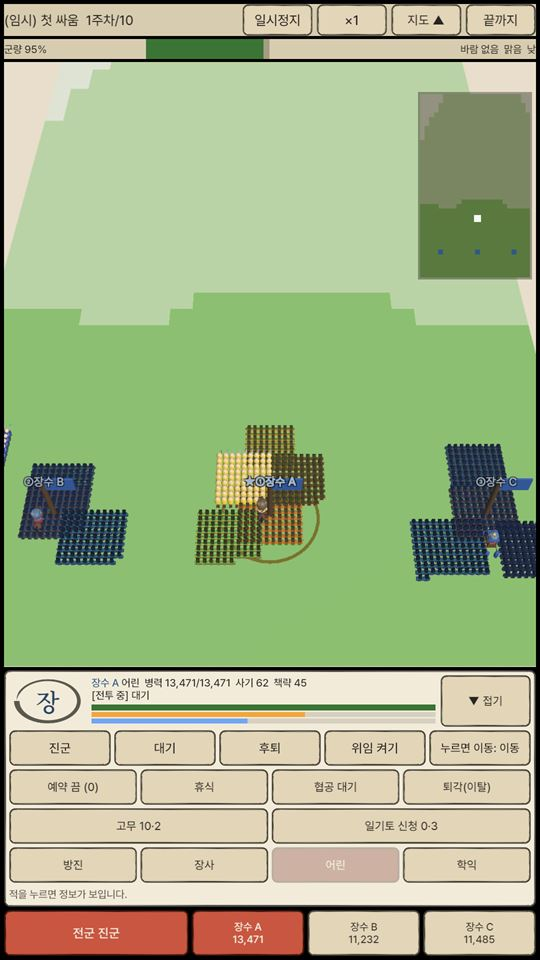
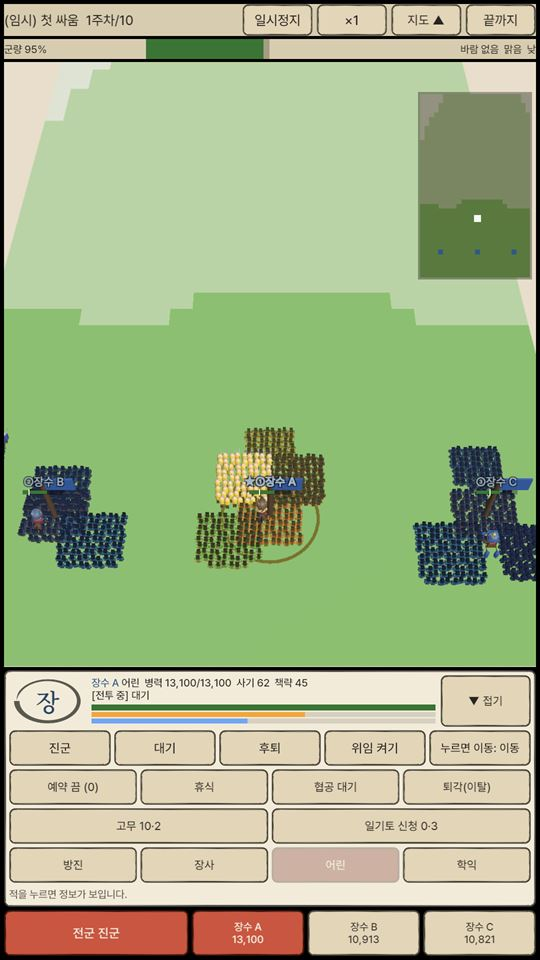
Play Test (전투 확인) 메뉴와 원격 #139 확인 결과 (#141)
원격 #139(진형 전환·퇴각 선택·사기 막대·쓰러짐)를 데스크탑이 Unity에서 확인했다.
- Game ▸ Play Test (전투 확인): 진형 전환 3장, 퇴각 창 [버틴다]/[퇴각한다], 접전 확대,
  장수 자세 확대, FPS
- 결과·캡처·버그 B5~B8은 docs/captures/latest/README.md

diff --git a/unity/Assets/Game/Scripts/Boot/PlayTestTour.cs b/unity/Assets/Game/Scripts/Boot/PlayTestTour.cs
@@ -29,7 +29,8 @@ namespace Game.Unity.Boot
         public bool Done { get; private set; }
         public string Folder => _folder;
 
-        public PlayTestTour(GameApp app, string folder) { _app = app; _folder = folder; }
+        private readonly bool _battleOnly;
+        public PlayTestTour(GameApp app, string folder, bool battleOnly = false) { _app = app; _folder = folder; _battleOnly = battleOnly; }
 
         private GameContext Ctx => _app.Context;
         private string T(string key, params object[] args) => Ctx.T(key, args);
@@ -49,6 +50,14 @@ namespace Game.Unity.Boot
                 ("5·6·7 전투 이동·일기토(거절)·탈것", () => BattleChecks(false)),
                 ("6 일기토 응하기 (새 전투)", () => BattleChecks(true)),
                 ("8 아이콘·ⓘ", IconsAndInfo),
+                ("9 큰 전투", BigBattle),
+            };
+            if (_battleOnly) sections = new (string name, Func<IEnumerator> run)[]
+            {
+                ("R-92 진형 전환", Reform),
+                ("R-93 퇴각 선택 [버틴다] + 사기 막대·쓰러짐·일기토 알림", () => RetreatChoice(true)),
+                ("R-93 퇴각 선택 [퇴각한다]", () => RetreatChoice(false)),
+                ("장수 자세 확대", PoseCloseups),
                 ("9 큰 전투", BigBattle),
             };
             foreach (var s in sections)
@@ -353,6 +362,126 @@ namespace Game.Unity.Boot
             VisibleButton(T("ui.battle.skip"))?.onClick.Invoke();
             yield return new WaitForSecondsRealtime(1f);
         }
+
+        // ---------- PR #139: 진형 전환 ----------
+        private IEnumerator Reform()
+        {
+            var screen = StartFirstSample(); if (screen == null) yield break;
+            var ctl = screen.DebugControl; var sim = screen.DebugSim; var field = FieldOf(screen);
+            screen.DebugSetSpeed(0);
+            yield return new WaitForSecondsRealtime(1f);
+            var c = ctl.OwnCorps().FirstOrDefault(x => x.Setup.KnownFormations != null && x.Setup.KnownFormations.Any(f => f != x.Formation?.Id));
+            if (c == null) { Log("진형을 바꿀 수 있는 아군 군단 없음 (아는 진형이 하나뿐)"); yield break; }
+            string to = c.Setup.KnownFormations.First(f => f != c.Formation?.Id);
+            field.LookAt(c); field.Rig.SetDistance(14f);
+            ctl.Select(c.Id);
+            bool ok = ctl.ChangeFormation(to);
+            yield return null; yield return null;
+            Log($"진형 전환 {c.Id}: {c.Formation?.Id} → {to}, 명령 {(ok ? "받음" : "거부")}, 전환 {c.ReformTotalTicks}틱 ({c.ReformTotalTicks * sim.Context.Combat.TickSeconds.ToDisplayDouble():0.0}초)");
+            yield return Shot("pt30_reform_start");
+            float until = Time.realtimeSinceStartup + 12f;
+            while (c.Reforming && c.ReformProgress < Fix.FromInt(1) / Fix.FromInt(2) && Time.realtimeSinceStartup < until) yield return null;
+            yield return Shot("pt31_reform_mid");
+            while (c.Reforming && Time.realtimeSinceStartup < until) yield return null;
+            yield return new WaitForSecondsRealtime(0.3f);
+            Log($"전환 끝: 지금 진형 {c.Formation?.Id}, 전환 중 {c.Reforming}");
+            yield return Shot("pt32_reform_end");
+            VisibleButton(T("ui.battle.skip"))?.onClick.Invoke();
+            yield return new WaitForSecondsRealtime(1f);
+        }
+
+        // ---------- PR #139: 퇴각 선택 (+ 사기 막대·쓰러짐·일기토 알림) ----------
+        private IEnumerator RetreatChoice(bool hold)
+        {
+            var screen = StartFirstSample(); if (screen == null) yield break;
+            var ctl = screen.DebugControl; var field = FieldOf(screen);
+            screen.DebugSetSpeed(2);
+            string tag = hold ? "hold" : "retreat";
+            bool asked = false, closeShot = false, duelNoted = false;
+            float until = Time.realtimeSinceStartup + 200f, after = 0f;
+            while (Time.realtimeSinceStartup < until && _app.CurrentScreen == screen)
+            {
+                yield return new WaitForSecondsRealtime(0.25f);
+                // 일기토 창: 위 알림 문구만 기록하고 거절해 넘어간다 (이 시험의 주제가 아님)
+                var duelNo = VisibleButton(T("ui.duel.refuse")) ?? VisibleButton(T("ui.duel.pass"));
+                if (duelNo != null)
+                {
+                    if (!duelNoted) { duelNoted = true; Log("일기토 창이 뜰 때 위 알림: " + string.Join(" / ", NoticeTexts())); yield return Shot("pt33_duel_notice"); }
+                    duelNo.onClick.Invoke(); continue;
+                }
+                // 접전 확대 한 번 (사기 막대·쓰러지는 병사·시체)
+                var engaged = ctl.OwnCorps().FirstOrDefault(x => x.MeleeContact);
+                if (!closeShot && engaged != null)
+                {
+                    closeShot = true;
+                    screen.DebugSetSpeed(0);
+                    field.LookAt(engaged); field.Rig.SetDistance(12f);
+                    yield return new WaitForSecondsRealtime(1.2f);
+                    yield return Shot("pt34_melee_close_" + tag);
+                    field.Rig.SetDistance(20f);
+                    yield return Shot("pt35_morale_bars_" + tag);
+                    screen.DebugSetSpeed(2);
+                }
+                var holdB = VisibleButton(T("ui.retreatAsk.hold"));
+                if (holdB != null && !asked)
+                {
+                    asked = true;
+                    var who = ctl.OwnCorps().OrderBy(x => x.Morale).FirstOrDefault();
+                    if (who != null) { field.LookAt(who); field.Rig.SetDistance(16f); }
+                    yield return null;
+                    Log($"퇴각 선택 창 뜸 ({who?.Id} 사기 {who?.Morale.FloorToLong()} 병력 {who?.Troops:N0})");
+                    yield return Shot("pt36_retreat_prompt");
+                    if (hold) holdB.onClick.Invoke(); else VisibleButton(T("ui.retreatAsk.retreat"))?.onClick.Invoke();
+                    Log("누름: " + (hold ? "[버틴다]" : "[퇴각한다]"));
+                    after = Time.realtimeSinceStartup;
+                    continue;
+                }
+                if (asked)
+                {
+                    var hit = NoticeTexts().FirstOrDefault(t => t.Contains("패주") || t.Contains("퇴각한다"));
+                    if (hit != null) { Log("알림: " + hit); yield return Shot("pt37_after_" + tag); break; }
+                    if (Time.realtimeSinceStartup - after > 90f) { Log("누른 뒤 90초 안에 퇴각·패주 알림을 못 봄"); break; }
+                }
+            }
+            if (!asked) Log("퇴각 선택 창이 안 뜸 (200초)");
+            if (!closeShot) Log("접전 장면을 못 찍음");
+            if (_app.CurrentScreen is BattleScreen) VisibleButton(T("ui.battle.skip"))?.onClick.Invoke();
+            yield return new WaitForSecondsRealtime(1f);
+        }
+
+        // ---------- 장수 자세 확대 ----------
+        private IEnumerator PoseCloseups()
+        {
+            var screen = StartFirstSample(); if (screen == null) yield break;
+            var sim = screen.DebugSim; var field = FieldOf(screen);
+            yield return new WaitForSecondsRealtime(1f);
+            SetPaused(screen, true);
+            int n = 0;
+            foreach (var c in sim.Context.Corps.Where(x => x.InBattle).ToList())
+            {
+                field.LookAt(c); field.Rig.SetDistance(Game.Unity.Battle3D.BattleCameraRig.MinDistance);
+                yield return new WaitForSecondsRealtime(0.4f);
+                string role = c.Setup.Role == CorpsRoles.Commander ? "총대장" : "장수";
+                string name = $"pt40_pose_{n++}_{c.Id}";
+                yield return Shot(name);
+                Log($"자세 확대: {c.Id} ({c.Team}, {role}) → {name}");
+            }
+            SetPaused(screen, false);
+            VisibleButton(T("ui.battle.skip"))?.onClick.Invoke();
+            yield return new WaitForSecondsRealtime(1f);
+        }
+
+        private BattleScreen StartFirstSample()
+        {
+            var catalog = SampleBattles.Catalog(Ctx.Defs, Ctx.Flow);
+            if (catalog.Count == 0) { Log("전투할 맵 없음"); return null; }
+            return StartSample(catalog[0]);
+        }
+        private static Game.Unity.Battle3D.BattleField3D FieldOf(BattleScreen s) =>
+            (Game.Unity.Battle3D.BattleField3D)typeof(BattleScreen).GetField("_field", System.Reflection.BindingFlags.NonPublic | System.Reflection.BindingFlags.Instance)?.GetValue(s);
+        private static void SetPaused(BattleScreen s, bool on) =>
+            typeof(BattleScreen).GetField("_paused", System.Reflection.BindingFlags.NonPublic | System.Reflection.BindingFlags.Instance)?.SetValue(s, on);
+        private IEnumerable<string> NoticeTexts() => Texts().Select(t => t.text).Where(t => !string.IsNullOrEmpty(t) && (t.Contains("군단") || t.Contains("일기토")));
 
         // ---------- 도움 ----------
         private static Vec ClampToField(BattleSimulation sim, Vec p)

diff --git a/unity/Assets/Game/Editor/GameEditorMenu.cs b/unity/Assets/Game/Editor/GameEditorMenu.cs
@@ -82,8 +82,13 @@ namespace Game.Unity.EditorTools
         /// 플레이 테스트 (Play 중에만): 하단 탭·마스터·샘플전투·맵·전투 이동·일기토·아이콘·큰 전투를 버튼을 눌러 가며 해 보고
         /// 캡처(pt*.png)와 기록(playtest.log)을 저장소/captures/playtest_날짜_시각/ 에 남긴다. 마스터 행동이 세이브를 바꾸므로 세이브를 먼저 백업한다.
         /// </summary>
+        [MenuItem("Game/Play Test (전투 확인)")]
+        public static void PlayTestBattle() => RunPlayTest(true);
+
         [MenuItem("Game/Play Test")]
-        public static void PlayTest()
+        public static void PlayTest() => RunPlayTest(false);
+
+        private static void RunPlayTest(bool battleOnly)
         {
             if (!EditorApplication.isPlaying)
             {
@@ -92,8 +97,8 @@ namespace Game.Unity.EditorTools
             }
             var app = Object.FindFirstObjectByType<GameApp>();
             if (app == null || app.Context == null) { Debug.LogWarning("GameApp이 준비되지 않았습니다."); return; }
-            string folder = Path.Combine(GameDataPaths.RepoRoot, "captures", "playtest_" + System.DateTime.Now.ToString("yyyyMMdd_HHmmss"));
-            var tour = app.StartPlayTest(folder);
+            string folder = Path.Combine(GameDataPaths.RepoRoot, "captures", (battleOnly ? "playtest_battle_" : "playtest_") + System.DateTime.Now.ToString("yyyyMMdd_HHmmss"));
+            var tour = app.StartPlayTest(folder, battleOnly);
             EditorApplication.CallbackFunction wait = null;
             wait = () =>
             {

diff --git a/unity/Assets/Game/Scripts/Boot/GameApp.cs b/unity/Assets/Game/Scripts/Boot/GameApp.cs
@@ -142,9 +142,9 @@ namespace Game.Unity.Boot
         public GameScreen CurrentScreen => _current;
 
         /// <summary>개발용: 확인 목록을 버튼을 눌러 가며 해 보고 캡처·기록을 남긴다 (<see cref="PlayTestTour"/>).</summary>
-        public PlayTestTour StartPlayTest(string folder)
+        public PlayTestTour StartPlayTest(string folder, bool battleOnly = false)
         {
-            var tour = new PlayTestTour(this, folder);
+            var tour = new PlayTestTour(this, folder, battleOnly);
             StartCoroutine(tour.Run());
             return tour;
         }

diff --git a/docs/captures/latest/README.md b/docs/captures/latest/README.md
@@ -1,56 +1,50 @@
-# 최신 화면 캡처 — 플레이 테스트
+# 최신 화면 캡처 — 전투 확인 (원격 PR #139 인계)
 
-> 규칙: [collab.md](../../collab.md) 7장. 이 폴더 하나만 쓰고, 새 캡처가 오면 **덮어쓴다**.
-> 폭 540px JPG (원본 PNG는 사용자 PC `captures/`에만, Git 제외). LFS 밖이라 원격 Claude도 열어 볼 수 있다.
+> 규칙: [collab.md](../../collab.md) 7장. 이 폴더 하나만 쓰고, 새 캡처가 오면 **덮어쓴다**. 폭 540px JPG, LFS 밖.
 
-- 캡처: 2026-11-14 10:28 플레이 테스트 (원본 `captures/playtest_20261114_102817`, `pt15`만 10:22 첫 회차), Unity 6000.3.28f1 에디터 Play, 1080×1920
-- 코드 기준: `main` fbf239d (#137) + `desktop/playtest`
-- 방법: 데스크탑 Claude는 Unity를 직접 누를 수 없어 **메뉴 `Game ▸ Play Test`** (`Scripts/Boot/PlayTestTour.cs`)를 만들었다. 버튼을 코드로 눌러 가며 원격 인계의 확인 목록 1~9를 해 보고 캡처(`pt*.png`)와 기록(`playtest.log`)을 남긴다. 이 폴더의 [playtest.log](playtest.log)가 그 기록이다. 다음에도 같은 메뉴로 다시 돌릴 수 있다.
+- 캡처: 2026-11-14 11:43 `Game ▸ Play Test (전투 확인)` (원본 `captures/playtest_battle_20261114_114301`), 에디터 Play 1080×1920
+- 코드 기준: `main` b193565 (#139) + `desktop/playtest-139` (플레이 테스트에 전투 확인 항목 추가)
+- 기록: [playtest.log](playtest.log). 지난 전체 플레이 테스트 결과는 PR #138 README(이 폴더의 이전 판)에.
 
-## 확인 결과 (원격 인계 1장 번호)
+## 결과 (원격 인계 "부탁" 번호)
 
 | # | 항목 | 결과 | 캡처 |
 |---|---|---|---|
-| 1 | 하단 두 줄 탭 | **됨.** 위 줄 가로 스크롤·"›" 표시, 19개 탭 모두 눌러 그 내용이 열림 (대전 = 준비 중). **고침**: 끝까지 밀어도 "›"가 남아 있던 것 | pt01, pt02 |
-| 2 | 마스터 | **안 됨 (서버 설정)**: 세 지급·해금·장수 받기 모두 "서버 마스터 계정이 아닙니다"로 거절, 숫자 그대로 → 버그 목록 B1 | pt03~05 |
-| 3 | 샘플전투 | **됨.** 싸우기 → 끝까지 → 결과 → 다시 싸우기 → 목록. 끝난 뒤 **세이브가 바이트 단위로 같음** | pt06~08 |
-| 4 | 맵 / 맵 자세히 | **됨.** 8개 맵 모두 칸 비율(24×40 = 0.60) = 그림 비율(432×720 = 0.60), 범례·스텝 목록·[샘플전투] 보임 | pt09, pt10 |
-| 5 | 교전 중 빼기 | **확인 못 함**: 시험한 총대장 P1이 맵 아래 끝(y 38/40)이라 뒤로 갈 자리가 없었다 (명령은 받음). 적 쪽 누름은 `Attack`으로 받음. 도구를 고쳐 다음엔 옆으로 빼기를 시험 → 사람이 한 번 직접 해 보는 게 확실 | pt12 |
-| 6 | 일기토 | **됨.** 적의 신청 창(전투 멈춤) → [거절한다] → 사기 61→43 (P2 59→51, P3 59→49), 정보 줄에 바로 보임. [응한다] → 대결 화면 → [전투로 돌아가기] → 전투로. 모든 아군 장수 스킬 메뉴에 "일기토 신청"(3회), 쓴 뒤 바로 다시 못 씀(쿨타임). 마주침 [일기토 신청]/[넘어가기] 창은 이번에 안 뜸 | pt14, pt15, pt16 |
-| 7 | 장수 탈것·자세 | 전장에서 장수가 말 위에 보이고 가마(장수 C)도 보임. 대결 화면은 코드 인형(흰 말). **T자 자세인지는 전장 거리에서 구별 불가** — 이번에 `Anim/Rig_Medium_General.fbx` + `poseClip: "Idle"`을 넣었으니 가까이 확대해 확인 필요 | pt11, pt16, pt17 |
-| 8 | 아이콘·ⓘ | **됨.** 상단 자원·장수 목록·장수 화면 능력치 아이콘 6개 모두 그림, ⓘ 열기·닫기 됨 | pt18~20 |
-| 9 | 큰 전투 | 에디터 평균 **60 FPS**(수직동기 상한), 느린 5% 프레임 18ms, 가장 느린 20ms (맵 test_plain, 군단 5, 병력 65,888). **폰은 아직 안 잼** | pt21 |
+| 1 | 진형 전환 걸어가기 | **됨.** 어린 → 방진: 중간 캡처에 정보 줄 "어린→방진 바꾸는 중", 소부대 덩어리가 자리를 옮겨 끝에 더 촘촘한 사각형. (기록의 "전환 0틱"은 도구가 명령 직후 값을 읽어서 — 실제 전환은 있음) | pt30~32 |
+| 2 | 퇴각 선택 창 | **창은 됨.** P3(장수 C) 사기 34에서 뜸, 전투 멈춤, 버튼 왼쪽 [버틴다] · 오른쪽 [퇴각한다](주홍). **누른 뒤 알림("끝내 무너져 패주한다" / "사기가 무너져 퇴각한다")은 도구가 못 잡았다** → 확인 못 함 (아래 B6) | pt36 |
+| 3 | 사기 막대 | 깃발 이름표 아래 초록 막대 + 흰 눈금 보임. **가까이 당기면 장수 머리와 겹친다** (아래 B7). 노랑·빨강 바뀜은 이번 캡처에 없음 | pt35, pt34_zoom |
+| 4 | 쓰러짐·시체·얇아짐 | 정지 캡처로는 구별이 어렵다 (접전에서 두 군대가 겹쳐 보임). 확인 못 함 | pt34 |
+| 5 | 일기토 알림 문구 | 이번 세 전투에서 일기토 창이 안 떠 확인 못 함 (B2는 원격이 고쳤다고 함) | — |
+| 6 | 장수 자세 | **적 총대장(곰 모자 바바리안)은 T자가 아님** — 팔을 벌리지 않은 서 있는 자세 (Idle 먹음). 장수 B·C는 병사 사이에 묻혀 판단 어려움, C는 가마. **총대장 P1·적 총대장으로 카메라를 옮긴 캡처는 빈 땅** (아래 B8) | pt34_zoom, pt40_* |
+| 7 | 큰 전투 FPS | 에디터 평균 **59.8 FPS**, 느린 5% 18ms, **가장 느린 프레임 38ms** (지난번 20ms → 쓰러짐 연출 뒤 순간 끊김 늘어남). 병력 64,534, 군단 5. 폰은 아직 | pt21 |
 
-## 데스크탑이 고친 화면 버그
+## 같이 봐 달라고 한 것
 
-- **전투 위 두 줄(스테이지·시간 / 군량·바람·날씨)이 안 보임**: 3D 전장을 그릴 때 화면 배경을 꺼서 검은 바탕에 먹색 글자였다 → `BattleScreen` 위 두 줄에 `Palette.Bar` 바탕 (pt17에서 확인).
-- **탭 줄 "›"가 끝에서도 남음**: 끝까지 밀면 숨김 (`MainScreen.MoreHint`, pt02에서 확인).
+- **사기 막대·이름표**: 보통 거리에선 작고, 가까이 당기면 장수 모델 머리와 겹친다 (B7).
+- **퇴각 창과 다른 창이 동시에**: 일기토 창은 이번에 안 겹쳤지만, **퇴각 창과 "병사들이 흔들립니다!" 조언 창([후퇴][휴식][재정비][닫기])이 위아래로 같이 떴다** (B5, pt36).
+- **퇴각 창 버튼 순서**: 왼쪽 [버틴다] · 오른쪽 [퇴각한다] — 요청대로. [퇴각한다]가 주홍(권하는 쪽)으로 보인다.
 
 ## 원격에 넘길 버그
 
-### B1. 마스터 지급이 모두 거절됨 (서버 설정·정책)
-- 재현: 개발 빌드(에디터) → 마스터 탭 → [+100,000 군량] 등 / [모든 스텝 깬 것으로] / [모든 장수 받기]
-- 기대: 상단 숫자가 바뀌고 스텝·장수가 늘어난다
-- 실제: "서버 마스터 계정이 아닙니다. 서버가 거절해 되돌아갑니다. 위 계정 id를 서버 설정 Game:Masters에 넣어 주세요." 자원·스텝(2/12)·장수(3) 그대로
-- 캡처: pt04
-- 추정: 이 계정(`acct-7b35c8e4e6c05570`)이 서버 `Game:Masters`에 없다. 서버에 넣을지, 개발 빌드는 서버를 끄면 로컬로 지급되게 할지 정해 줘.
+### B5. 퇴각 선택 창과 조언 창이 동시에 뜬다
+- 재현: 샘플전투 test_plain, ×4 → 장수 C 사기 30대로 떨어질 때
+- 기대: 퇴각 선택 창 하나 (조언 창은 그 뒤나 아예 안 뜸)
+- 실제: 위에 조언 창 "장수 C: (임시) 병사들이 흔들립니다!" + [후퇴][휴식][재정비][닫기], 아래에 퇴각 선택 창. 위쪽 알림 줄도 "장수 C: 퇴각할지 버틸지 정해야 한다!"로 같은 말을 세 번 한다
+- 캡처: pt36
+- 추정: 사기 경고 조언(SpeechPlanner/조언)과 퇴각 기준 창이 같은 틱에 따로 뜸. 퇴각 창이 떠 있는 동안 같은 군단의 사기 조언을 막기.
 
-### B2. 적의 일기토 신청 알림 문구가 거꾸로
-- 재현: 전투 중 적장이 일기토를 걸어 옴
-- 기대: "적장 정이(가) 장수 A에게 일기토를 걸어 왔다!" (창 안 문장은 맞음)
-- 실제: 위쪽 알림 "장수 A: 적장에 일기토를 걸어 왔다!" — 주어가 우리 장수처럼 읽힘
-- 캡처: pt14 (화면 맨 위)
-- 추정: 알림 문구 키(대사·이벤트 알림)의 주어 자리. 문구 수정 필요 (strings).
+### B6. 퇴각·패주 알림 확인 못 함 (도구 한계일 수 있음)
+- 재현: 위 창에서 [버틴다] 또는 [퇴각한다] → 90초 지켜봄
+- 기대: "장수 C 군단이 끝내 무너져 패주한다!" / "…사기가 무너져 퇴각한다."
+- 실제: 도구가 화면 글자에서 두 문장을 못 찾음 (90초). 알림이 아주 짧게 떴다 사라졌거나, 대답이 안 먹었을 수 있다
+- 다음: 데스크탑이 도구를 고쳐 누른 뒤 2초마다 캡처하도록 하거나, 사람이 한 번 직접 확인. 규칙 테스트(R-93)로 이미 확인했다면 화면 쪽 알림만 남음
 
-### B3. 교전 중 빼기(R-88) 미확인
-- 위 표 5번. 총대장이 맵 끝에 있어 시험이 성립하지 않았다. 규칙 테스트(R-88)가 있다면 그쪽 결과를 믿고, 아니면 사람이 한 번 해 보기.
+### B7. 사기 막대가 장수 머리와 겹친다
+- 재현: 접전 중 카메라를 장수 가까이(거리 12)
+- 실제: 이름표 "★적장 정" 아래 막대가 장수 모델의 머리 위에 겹쳐 그려진다 (pt34_zoom)
+- 제안: 이름표·막대를 장수 모델 키(+탈것)보다 조금 더 위로, 또는 카메라 거리에 따라 올림
 
-### B4. 마주침 일기토 기회 창이 이번 두 전투에서 안 뜸
-- 재현: 샘플전투 test_plain, ×4로 약 2분 두 번
-- 기대: 대장끼리 가까워지면 [일기토 신청]/[넘어가기]
-- 실제: 적의 신청 창만 떴고 마주침 기회 창은 못 봄
-- 추정: 확률·거리 조건(contests.json `duel.trigger`)상 드문 것일 수 있다. 버그가 아니면 무시.
-
-### 참고 (버그 아님)
-- 큰 전투 FPS는 에디터 값이라 폰 측정이 따로 필요하다 (`soldierBudget` 2000을 낮출지는 폰 결과로).
-- 장수 화면 ⓘ 카드가 열리면 맨 위 [장수 모집] 버튼 아래쪽을 덮는다 (pt19). 닫으면 되므로 그대로 둠.
+### B8. 총대장 쪽으로 카메라를 옮기면 빈 땅이 보인다
+- 재현: 전투 시작 직후 `BattleField3D.LookAt(총대장 군단)` + `Rig.SetDistance(8)`
+- 실제: P1(아군 총대장)·enemy_corps_01(적 총대장) 캡처가 군단 없이 빈 땅. 일반 장수(P2·P3)는 제대로 보임
+- 추정: 총대장 군단의 `Anchor`가 화면 위치와 다르거나(맵 끝 근처), 카메라가 맵 끝에서 막힘. 사람이 지도에서 총대장을 눌러 확대할 때도 그런지 확인 필요

diff --git a/docs/worklog.md b/docs/worklog.md
@@ -19,4 +19,5 @@
 - 2026-11-14 [원격] claude/kind-bohr-365c76 — 하단 아래 줄(배포 탭)을 사용자가 지목한 대전연습·상점 두 개로 바로잡음, 나머지는 위 줄 (PR #137)
 - 2026-11-14 [데스크탑] desktop/playtest — 플레이 테스트 도구(Game ▸ Play Test)로 확인 목록 1~9, 전투 위 두 줄 바탕·탭 "›" 끝에서 숨김, 장수 자세 동작(Rig_Medium_General, Idle), 버그 목록 B1~B4
 - 2026-11-14 [원격] claude/kind-bohr-365c76 — 진형 전환 중 자리 옮기기(R-92)·퇴각 선택(퇴각/버티기, R-93)·깃발 사기 막대·퇴각 이유 알림, 병사 앞줄에서 쓰러지는 연출, 일기토 알림 주어 고침 (PR #139)
+- 2026-11-14 [데스크탑] desktop/playtest-139 — Play Test (전투 확인) 메뉴, #139 확인: 진형 전환·퇴각 창·사기 막대·장수 자세(Idle 확인)·FPS, 버그 B5~B8
 - 2026-11-14 [데스크탑] desktop/design-review — 디자인 시안 01~05 확정(타이틀·로그인·약관·메인 틀+스토리·장수), 공통 부품 목록, collab.md 2.1 디자인 구현 기간(데스크탑이 화면 모양·문구)
